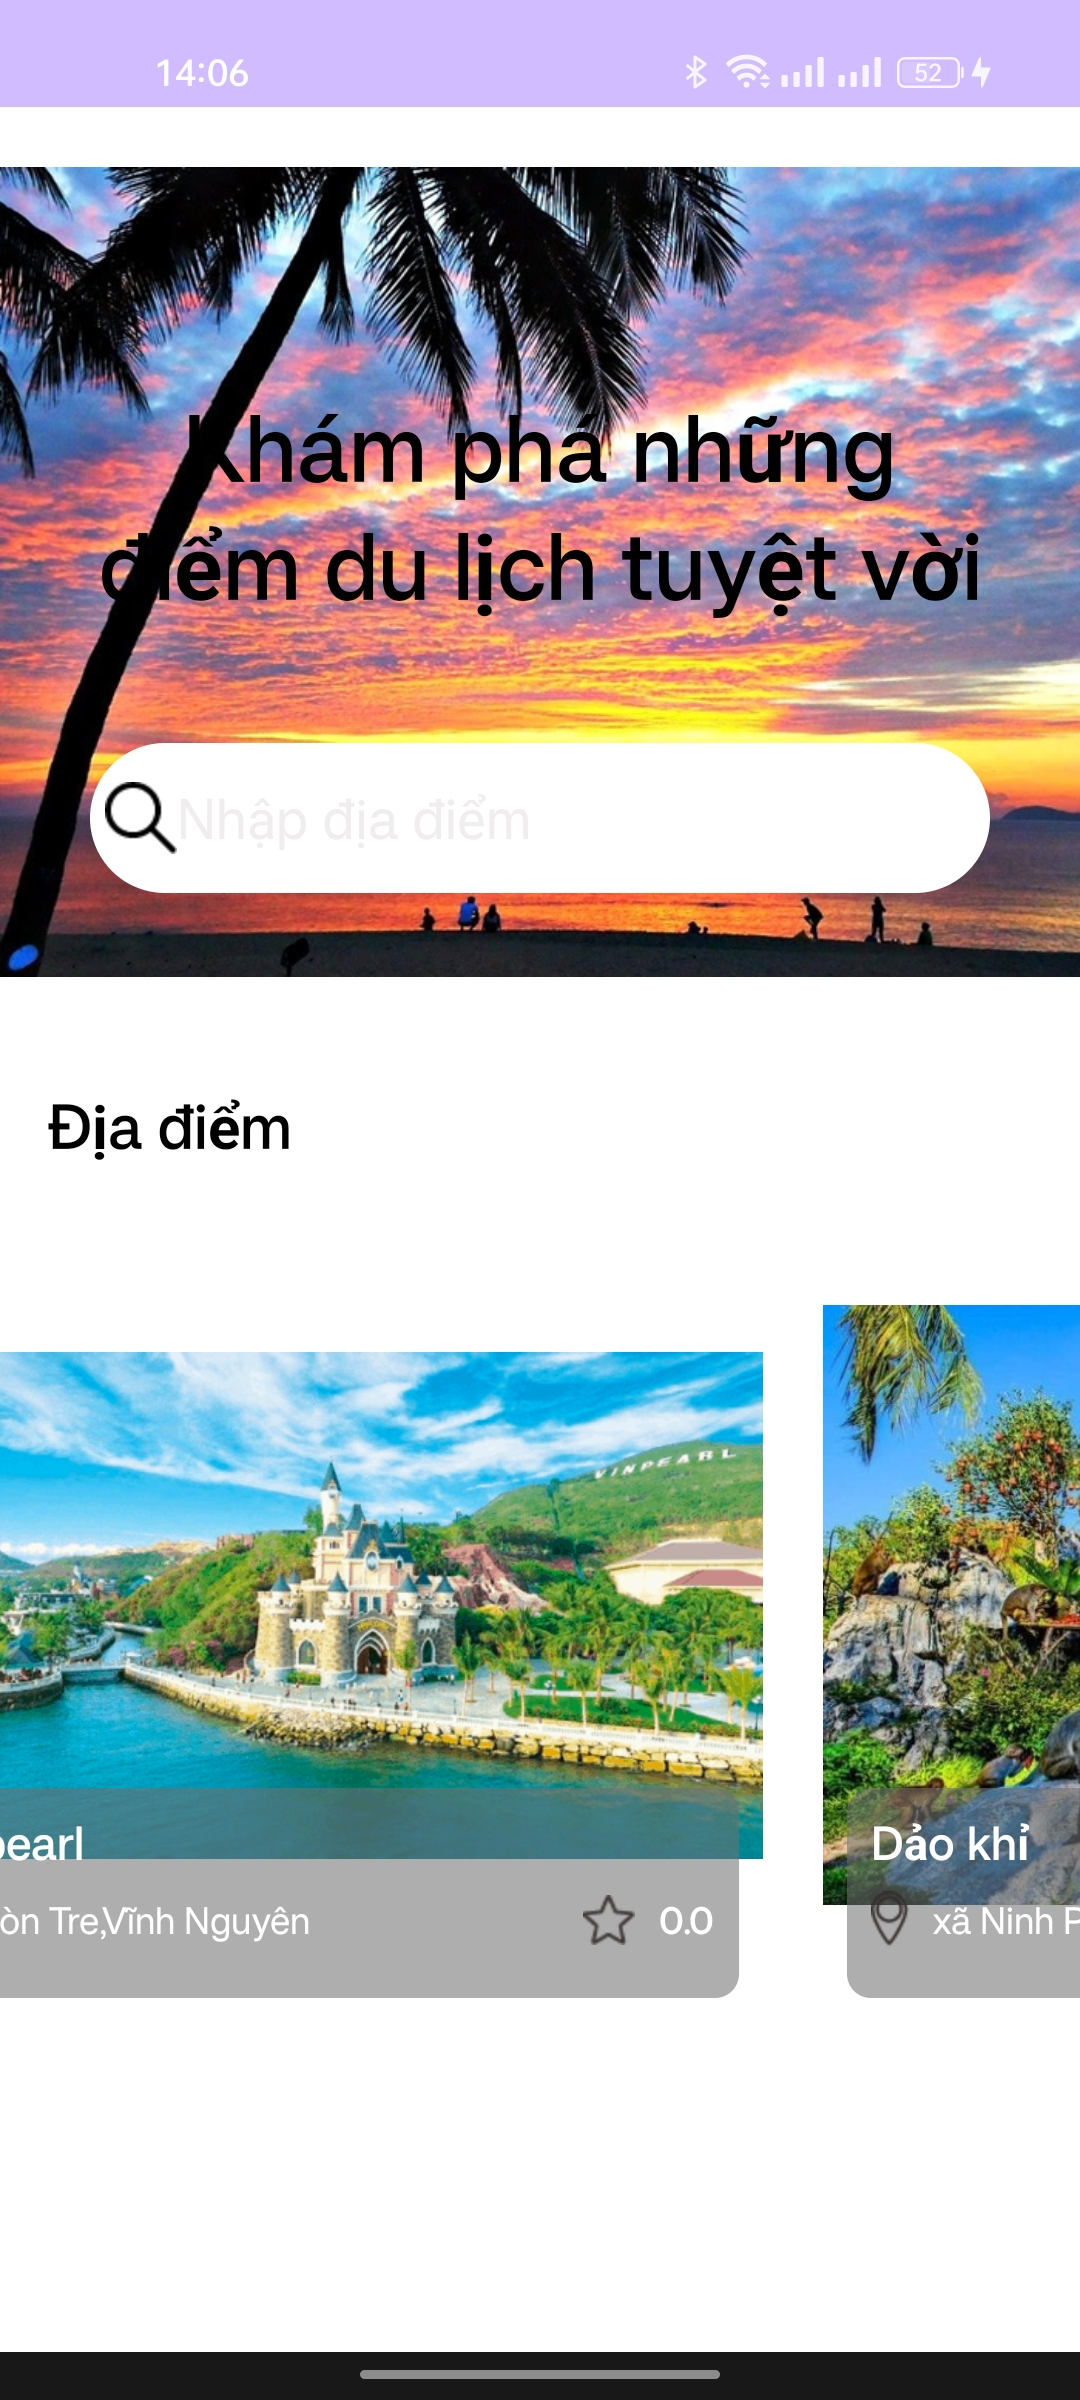
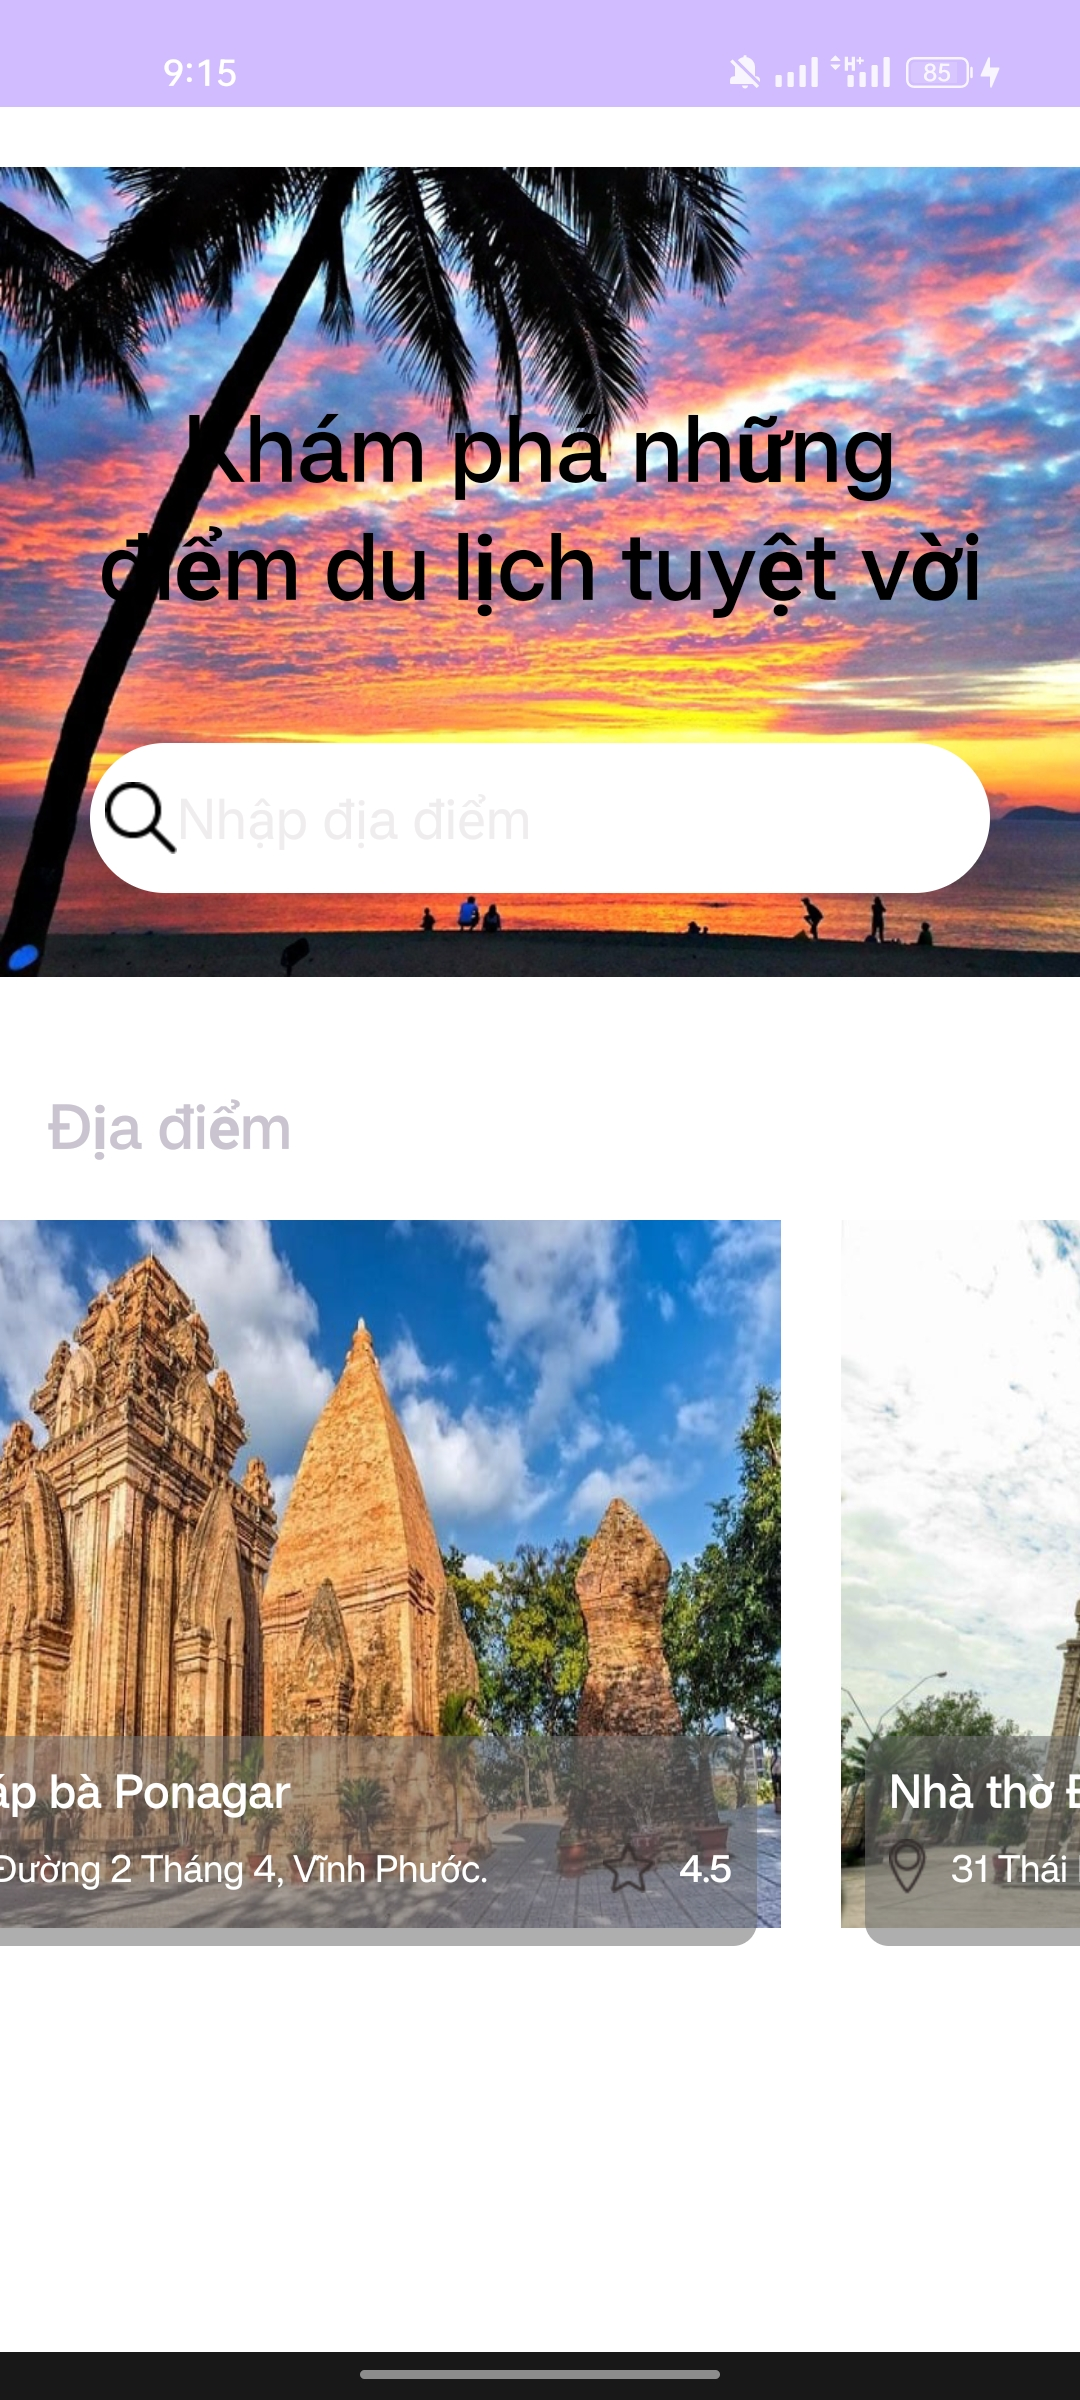
upload

diff --git a/app/src/main/java/com/nguyentanlap/myapplication/Activity/HomePageActivity.java b/app/src/main/java/com/nguyentanlap/myapplication/Activity/HomePageActivity.java
@@ -4,6 +4,7 @@ import androidx.appcompat.app.AppCompatActivity;
 import androidx.recyclerview.widget.LinearLayoutManager;
 import androidx.recyclerview.widget.RecyclerView;
 
+import android.content.Intent;
 import android.os.Bundle;
 
 import com.nguyentanlap.myapplication.Adapter.DiaDiemAdapter;
@@ -17,7 +18,7 @@ import java.io.IOException;
 import java.util.ArrayList;
 
 public class HomePageActivity extends AppCompatActivity {
-    private RecyclerView.Adapter adapter;
+    private DiaDiemAdapter adapter;
     private RecyclerView recyclerViewDiaDiem;
 
     @Override
@@ -27,32 +28,57 @@ public class HomePageActivity extends AppCompatActivity {
 
         ArrayList<DiaDiem> dsDiaDiem = new ArrayList<>();
 
-        String fileName = "diadiemcuthe.txt";
-        String ma,ten,diaChi,gioiThieu,anhhp,anh1,anh2,anh3;
-        double diem;
-        try {
-            AssetManager assetManager = context.getAssets();
-            InputStream inputStream = assetManager.open(fileName);
-            BufferedReader in = new BufferedReader(new FileReader(fileName));
-            ma = in.readLine();
-            while (ma != null) {
-                ten = in.readLine();
-                diaChi = in.readLine();
-                diem = Double.parseDouble(in.readLine());
-                gioiThieu = in.readLine();
-                anhhp = in.readLine();
-                anh1 = in.readLine();
-                anh2 = in.readLine();
-                anh3 = in.readLine();
+        dsDiaDiem.add(new DiaDiem("Vinpearl Land","98B/13, Trần Phú, Lộc Thọ.",4.8,
+                "vinpearl_hp",
+                "Toạ lạc trên đảo Hòn Tre xinh đẹp giữa biển khơi và bãi biển trong xanh quanh năm, Vinpearl Land được biết đến như điểm đến du lịch Nha Trang – “thiên đường của miền nhiệt đới” hấp dẫn mọi du khách.",
+                "vinpearl_p1",
+                "vinpearl_p2",
+                "vinpearl_p3"));
+        dsDiaDiem.add(new DiaDiem("Viện Hải dương học","số 1, Cầu Đá, Trần Phú",4.3,
+                "vienhdh_hp",
+                "Viện Hải dương học Nha Trang là nơi nghiên cứu đời sống các loài động thực vật biển tại thành phố Nha Trang tỉnh Khánh Hòa.Địa điểm du lịch này có trên 20.000 mẫu vật của 4.000 loại sinh vật biển được lưu giữ, sưu tầm và nuôi dưỡng trong nhiều năm.",
+                "vienhdh_p1",
+                "vienhdh_p2",
+                "vienhdh_p3"));
+        dsDiaDiem.add(new DiaDiem("Tháp bà Ponagar","Đường 2 Tháng 4, Vĩnh Phước.",4.5,
+                "thapba_hp",
+                "Tháp bà Ponagar là một trong những quần thể kiến trúc văn hóa Chăm Pa lớn nhất ở miền Trung Việt Nam. Tháp Bà Ponagar được bao trùm bởi màu xanh của cây rừng, như một công trình nổi bật giữa khung nền thiên nhiên xanh mát.",
+                "thapba_p1",
+                "thapba_p2",
+                "thapba_p3"));
+        dsDiaDiem.add(new DiaDiem("Nhà thờ Đá Nha Trang","31 Thái Nguyên, Phước Tân.",4.6,
+                "nhathoda_hp","Nhà thờ Đá Nha Trang là một địa danh nổi tiếng của thành phố, nơi đây mang nhiều giá trị lịch sử và văn hóa hơn  một nhà thờ tôn giáo thông thường.Nhà thờ Đá Nha Trang được xây dựng hoàn toàn từ những viên đá lập thể theo lối kiến trúc hình khối đặc trưng của Phương Tây.",
+                "nhathoda_p1",
+                "nhathoda_p2",
+                "nhathoda_p3"));
+        dsDiaDiem.add(new DiaDiem("Đảo Hòn Tằm"," Vĩnh Nguyên",4.8,
+                "hontam_hp",
+                "Đảo hòa tằm là một điểm du lịch Nha Trang, trải nghiệm nhất định bạn phải ghé qua khi tới với thành phố. Đảo Hòn Tằm đẹp mộng mơ với những hàng dừa chạy dọc trên bãi biển xanh ngát.",
+                "hontam_p1",
+                "hontam_p2",
+                "hontam_p3"));
 
-                dsDiaDiem.add(new DiaDiem(ten,diaChi,diem,gioiThieu,anhhp,anh1,anh2,anh3));
+
+        recyclerViewDiaDiem = findViewById(R.id.rvDD);
+        recyclerViewDiaDiem.setLayoutManager(new LinearLayoutManager(this, LinearLayoutManager.HORIZONTAL, false));
+        adapter = new DiaDiemAdapter(dsDiaDiem);
+        recyclerViewDiaDiem.setAdapter(adapter);
+
+        adapter.setOnNotificationItemClickListener(new DiaDiemAdapter.OnNotificationItemClickListener() {
+            @Override
+            public void onNotificationItemClick(DiaDiem item) {
+//
+                Intent intent = new Intent(HomePageActivity.this, DiaDiemCuTheActivity.class);
+                intent.putExtra("diadiem",item.getDdiem() );
+                intent.putExtra("diachi",item.getVitri() );
+                intent.putExtra("gioithieu",item.getGioiThieu() );
+                intent.putExtra("anhhp",item.getAnh() );
+                intent.putExtra("anh1",item.getAnh_p1() );
+                intent.putExtra("anh2",item.getAnh_p2() );
+                intent.putExtra("anh3",item.getAnh_p3() );
+                startActivity(intent);
             }
-            in.close();
-        } catch (FileNotFoundException e) {
-            throw new RuntimeException(e);
-        } catch (IOException e) {
-            throw new RuntimeException(e);
-        }
+        });
 
         recyclerViewDiaDiem = findViewById(R.id.rvDD);
         recyclerViewDiaDiem.setLayoutManager(new LinearLayoutManager(this, LinearLayoutManager.HORIZONTAL,false));

diff --git a/app/src/main/java/com/nguyentanlap/myapplication/Activity/DiaDiemCuTheActivity.java b/app/src/main/java/com/nguyentanlap/myapplication/Activity/DiaDiemCuTheActivity.java
@@ -23,9 +23,8 @@ import java.io.IOException;
 import java.util.ArrayList;
 
 public class DiaDiemCuTheActivity extends AppCompatActivity {
-    private RecyclerView.Adapter adapter;
+    private DiaDiemCuTheAdapter adapter;
     private RecyclerView recyclerViewDiaDiemCT;
-    private DiaDiem item;
     private ArrayList<AnhCT> listAnh = new ArrayList<>();
     private TextView tvTenDD;
     private TextView tvDiaChiDD;
@@ -55,17 +54,25 @@ public class DiaDiemCuTheActivity extends AppCompatActivity {
         recyclerViewDiaDiemCT.setAdapter(adapter);
     }
 
-    void setVariable()
+    public void setVariable()
     {
-        item = (DiaDiem) getIntent().getSerializableExtra("object");
-        tvTenDD.setText(item.getDdiem());
-        tvDiaChiDD.setText(item.getVitri());
-        tvGioiThieuDD.setText(item.getGioiThieu());
-        imgAnhHP.setImageResource(getMipmapResID(this.getCurrentFocus(),item.getAnh()));
+        Intent intent = getIntent();
+        String dDiem = intent.getStringExtra("diadiem");
+        tvTenDD.setText(dDiem);
+        String dChi = intent.getStringExtra("diachi");
+        tvDiaChiDD.setText("Địa chỉ: "+dChi);
+        String gThieu = intent.getStringExtra("gioithieu");
+        tvGioiThieuDD.setText(gThieu);
+        String anhHP = intent.getStringExtra("anhhp");
 
-        listAnh.add(new AnhCT(item.getAnh_p1()));
-        listAnh.add(new AnhCT(item.getAnh_p2()));
-        listAnh.add(new AnhCT(item.getAnh_p3()));
+        imgAnhHP.setImageResource(getMipmapResID(this.imgAnhHP,anhHP));
+
+        String anh1 = intent.getStringExtra("anh1");
+        String anh2 = intent.getStringExtra("anh2");
+        String anh3 = intent.getStringExtra("anh3");
+        listAnh.add(new AnhCT(anh1));
+        listAnh.add(new AnhCT(anh2));
+        listAnh.add(new AnhCT(anh3));
 
     }
     private int getMipmapResID(View view, String mipMapName){
@@ -74,11 +81,11 @@ public class DiaDiemCuTheActivity extends AppCompatActivity {
     }
 
     void getWidget(){
-        tvTenDD= findViewById(R.id.tvtendd);
+        tvTenDD= findViewById(R.id.tvTenDD);
         tvDiaChiDD = findViewById(R.id.tvDiaChiDD);
         tvGioiThieuDD = findViewById(R.id.tvGioiThieuDD);
         imgAnhHP = findViewById(R.id.img_hpDD);
         recyclerViewDiaDiemCT = findViewById(R.id.rvAnhDD);
-        btnback = findViewById(R.id.btnIntro);
+        btnback = findViewById(R.id.btnback);
     }
 }

diff --git a/app/src/main/java/com/nguyentanlap/myapplication/Adapter/DiaDiemAdapter.java b/app/src/main/java/com/nguyentanlap/myapplication/Adapter/DiaDiemAdapter.java
@@ -21,6 +21,11 @@ import java.util.ArrayList;
 public class DiaDiemAdapter extends RecyclerView.Adapter<DiaDiemAdapter.ViewHolder> {
     ArrayList<DiaDiem> dsDD;
 
+    private OnNotificationItemClickListener listener;
+
+    public void setOnNotificationItemClickListener(OnNotificationItemClickListener listener) {
+        this.listener = listener;
+    }
     public DiaDiemAdapter(ArrayList<DiaDiem> dsDD) {
         this.dsDD = dsDD;
     }
@@ -42,12 +47,17 @@ public class DiaDiemAdapter extends RecyclerView.Adapter<DiaDiemAdapter.ViewHold
         holder.itemView.setOnClickListener(new View.OnClickListener() {
             @Override
             public void onClick(View v) {
-                Intent intent = new Intent(holder.itemView.getContext(), DiaDiemCuTheActivity.class);
-                intent.putExtra("object", (CharSequence) dsDD.get(position));
-                holder.itemView.getContext().startActivity(intent);
+                int currentPosition = holder.getAdapterPosition();
+                if (listener != null && currentPosition != RecyclerView.NO_POSITION) {
+                    listener.onNotificationItemClick(dsDD.get(currentPosition));
+                }
+
             }
         });
 
+    }
+    public interface OnNotificationItemClickListener{
+        void onNotificationItemClick(DiaDiem item);
     }
 
     private int getMipmapResID(View view, String mipMapName){
